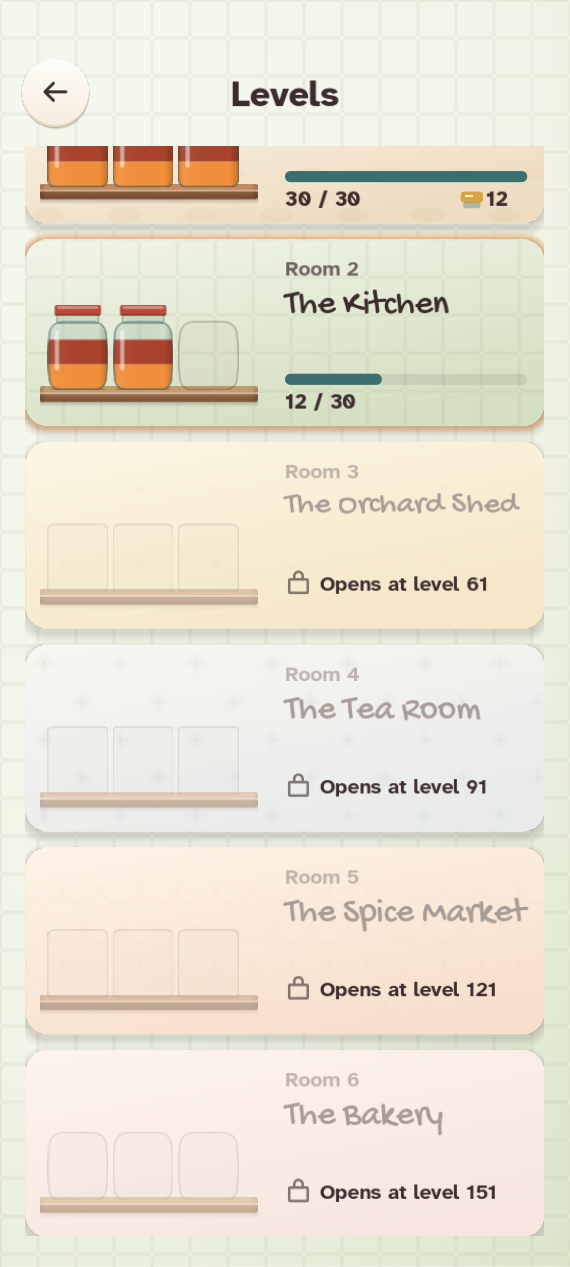
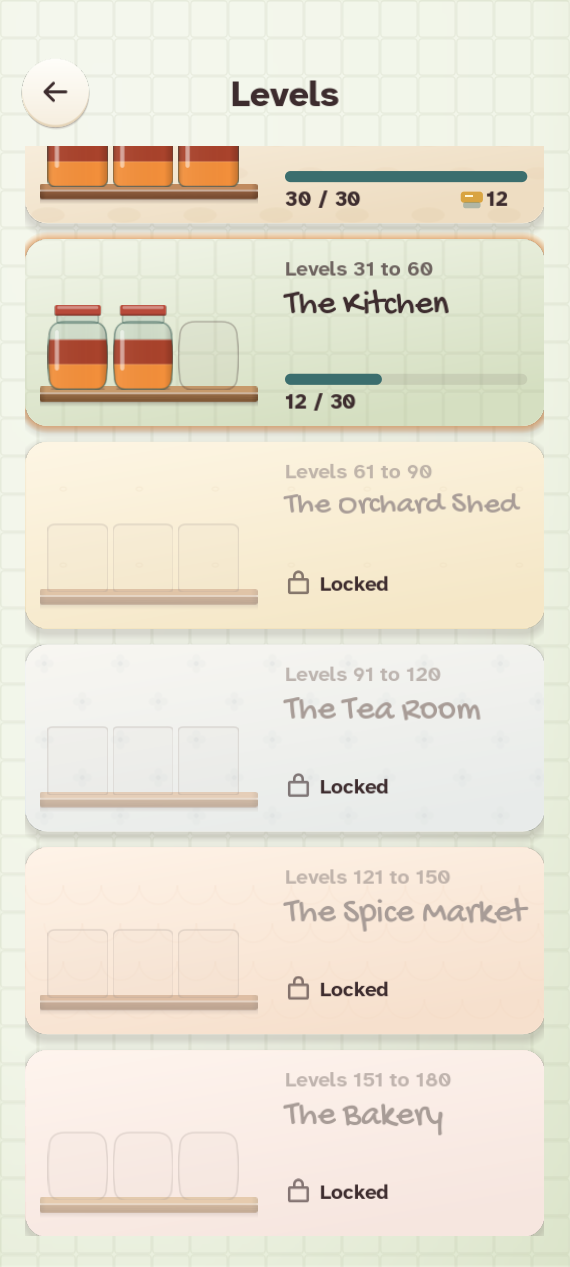
v0.3.2-alpha: Mehul's feedback on coins, Win card, streak, gift and Levels
The coin pill grows to fit the balance instead of clipping it. The Win card shows one line of news, the x2 button moved inside the coin chip, and the playtest flags moved behind a star. The Streak sheet is now a number, two stats and the bonus road. Streak bonuses run at 10, 15, 20, 30, 45, 60, 75 and 100 days, then every 50. Day 1 no longer shows a tick before it is claimed. Levels cards show their full range.

diff --git a/reports/economy.md b/reports/economy.md
@@ -7,27 +7,27 @@
 | 30 | The Larder | 801 | 1327 | 801 | 100% | 100% |
 | 60 | The Kitchen | 1173 | 2241 | 1173 | 100% | 100% |
 | 90 | The Orchard Shed | 964 | 2668 | 964 | 100% | 100% |
-| 120 | The Tea Room | 802 | 3264 | 802 | 100% | 100% |
-| 150 | The Spice Market | 580 | 3850 | 580 | 100% | 100% |
-| 180 | The Bakery | 269 | 4373 | 269 | 100% | 100% |
-| 210 | The Winter Cellar | 187 | 4859 | 387 | 82% | 100% |
-| 240 | The Greenhouse | 250 | 5320 | 250 | 71% | 100% |
-| 270 | The Apothecary | 198 | 5846 | 198 | 79% | 100% |
-| 300 | The Honey House | 241 | 6397 | 241 | 71% | 100% |
-| 330 | The Root Cellar | 209 | 6723 | 209 | 67% | 100% |
-| 360 | The Seaside Pantry | 213 | 7111 | 213 | 67% | 100% |
-| 390 | The Night Market | 212 | 7074 | 212 | 55% | 100% |
-| 420 | The Chocolatier | 256 | 6862 | 256 | 53% | 100% |
-| 450 | The Clockmaker's Pantry | 225 | 6505 | 225 | 49% | 100% |
-| 480 | The Royal Kitchen | 219 | 6203 | 219 | 51% | 100% |
-| 510 | The Grand Pantry | 218 | 6086 | 218 | 55% | 100% |
+| 120 | The Tea Room | 952 | 3414 | 952 | 100% | 100% |
+| 150 | The Spice Market | 930 | 4200 | 930 | 100% | 100% |
+| 180 | The Bakery | 619 | 4723 | 619 | 100% | 100% |
+| 210 | The Winter Cellar | 487 | 5459 | 487 | 100% | 100% |
+| 240 | The Greenhouse | 250 | 5920 | 550 | 88% | 100% |
+| 270 | The Apothecary | 198 | 6446 | 198 | 79% | 100% |
+| 300 | The Honey House | 391 | 7397 | 391 | 84% | 100% |
+| 330 | The Root Cellar | 209 | 7723 | 209 | 74% | 100% |
+| 360 | The Seaside Pantry | 213 | 8111 | 213 | 67% | 100% |
+| 390 | The Night Market | 212 | 8074 | 212 | 55% | 100% |
+| 420 | The Chocolatier | 256 | 7862 | 256 | 53% | 100% |
+| 450 | The Clockmaker's Pantry | 225 | 8005 | 225 | 66% | 100% |
+| 480 | The Royal Kitchen | 219 | 7703 | 219 | 51% | 100% |
+| 510 | The Grand Pantry | 218 | 7586 | 218 | 55% | 100% |
 
-- free: wanted 661 Hints, got 454 (69%); player level 40 at the end.
+- free: wanted 661 Hints, got 484 (73%); player level 40 at the end.
 - ads: wanted 661 Hints, got 661 (100%); player level 40 at the end.
-- once: wanted 661 Hints, got 464 (70%); player level 40 at the end.
+- once: wanted 661 Hints, got 494 (75%); player level 40 at the end.
 
 ## Gates
 
-- PASS free player can afford a Hint at the start of 92% of levels (gate: 33% or more)
+- PASS free player can afford a Hint at the start of 94% of levels (gate: 33% or more)
 - PASS ad player is never short of a Hint for more than 3 levels in a row (worst run 0)
-- PASS free player's median balance is 116 (gate: 100 to 2,000)
+- PASS free player's median balance is 216 (gate: 100 to 2,000)

diff --git a/README.md b/README.md
@@ -12,7 +12,7 @@ Guess wrong and the jar gives away part of the label. Fill a jar and the lid scr
 </p>
 
 <p align="center">
-<img src="https://img.shields.io/badge/version-0.3.1--alpha-3B6E6E" alt="Version 0.3.1-alpha">
+<img src="https://img.shields.io/badge/version-0.3.2--alpha-3B6E6E" alt="Version 0.3.2-alpha">
 <img src="https://img.shields.io/badge/Godot-4.7.2-478CBF?logo=godotengine&logoColor=white" alt="Godot 4.7.2">
 <img src="https://img.shields.io/badge/platform-Android%20(arm64)-3DDC84?logo=android&logoColor=white" alt="Android arm64">
 <img src="https://img.shields.io/badge/orientation-portrait-F28F3B" alt="Portrait">
@@ -53,8 +53,8 @@ The full rules, the level pipeline and the roadmap are in the design doc: [docs/
   level to replay it.
 - **Coins and boosters:** earned from first solves, the daily gift, rank-ups and finished rooms, and harder rooms pay
   more. No energy, no timers, no forced ads, and Retry is always free.
-- **Play streak and daily gift:** the gift opens after the day's first win and grows over 7 days. Streak savers cover
-  a missed day.
+- **Play streak and daily gift:** the gift opens after the day's first win and grows over 7 days, with bonuses at 10,
+  15, 20 and 30 days and on from there. Streak savers cover a missed day.
 - **Profile:** rank, XP, titles, avatars and a pantry ledger.
 - **Exact resume:** a level interrupted when the app is killed picks up where it left off.
 
@@ -72,7 +72,7 @@ The full rules, the level pipeline and the roadmap are in the design doc: [docs/
 2. Open it on the phone and allow installs from your browser or file manager.
 3. It installs as **Jarful** (`com.mehulkumars.jarful`). New builds install over old ones and keep your progress.
 
-Over USB instead: `adb install -r jarful-0.3.1-alpha-arm64.apk`
+Over USB instead: `adb install -r jarful-0.3.2-alpha-arm64.apk`
 
 Older builds are on the [releases page](https://github.com/MehulKumars/jarful/releases).
 

diff --git a/docs/DESIGN.md b/docs/DESIGN.md
@@ -77,7 +77,8 @@ Captions only appear the first time something happens: first slip, first pair, f
   one ad is worth one Hint), and coin packs ($0.99–$9.99, mock until Play Billing). Spent on Hint, Complete, Continue.
   No energy, no timers, no paywalls, no loot boxes.
 - **Play streak:** a day counts once you win any level. The daily gift opens after the first win of the day and
-  grows over a 7-day ladder. Every 7 days earns a streak saver (at most 2) that covers a missed day.
+  grows over a 7-day ladder. Every 7 days earns a streak saver (at most 2) that covers a missed day. Bonuses at 10,
+  15, 20, 30, 45, 60, 75 and 100 days, then every 50 days, are shown in advance on the Streak and Daily gift sheets.
 - **Rank:** XP from first solves, hard levels and gold lids; titles and avatars unlock as you rank up.
 - **Jar of the Day** (deferred): a daily puzzle will count toward the same streak.
 
@@ -109,7 +110,7 @@ Captions only appear the first time something happens: first slip, first pair, f
 - **Home, Levels (rooms), a Room (3 shelves of 10), Profile (avatar, name, rank, pantry ledger), Play.**
 - **Play:** pause, the level number with the slip meter under it, coins; the label rail; the board (3 columns,
   within thumb reach); Undo, Hint, +Jar, Complete (and Tidy up when every card is proven).
-- **Sheets:** Win (jar, shelf, coin and XP chips), Lose, Pause, Settings, Shop, Daily gift, Streak, avatar picker,
+- **Sheets:** Win (jar, shelf, coin and XP chips, one line of news; test builds add a star to rate the level), Lose, Pause, Settings, Shop, Daily gift, Streak, avatar picker,
   a solved level's card, the room reveal.
 - **Launch:** the tutorial on first launch, then Home. A level interrupted when the app is killed resumes exactly.
 - **Back button:** puts down a lifted card or leaves Complete's choice; closes the open sheet; in Play opens Pause;

diff --git a/docs/plan-m3.md b/docs/plan-m3.md
@@ -155,7 +155,7 @@ daily win counts toward the same streak.
 | Free coins (Shop) | +50 per optional ad (one ad = one Hint), 5 a day |
 | Player level-up (§5) | 20; every 5th level +2 Hints and an avatar |
 | Room complete | 150, plus the room reveal |
-| Streak milestones | 7 days: a streak saver; 30 days: 400 + avatar; 100 days: 800 + avatar |
+| Streak bonuses | 7 days: a streak saver; 10: 150; 15: 200; 20: 250; 30: 400 + avatar; 45: 500; 60: 600 + Complete; 75: 700; 100: 1,000 + avatar; then every 50 days: 1,000 + Complete |
 
 - **No coins** for gold lids or replays; gold gives XP.
 - **Starters:** 150 coins after the tutorial; 3 Hints at L6; 1 Complete at L16.
